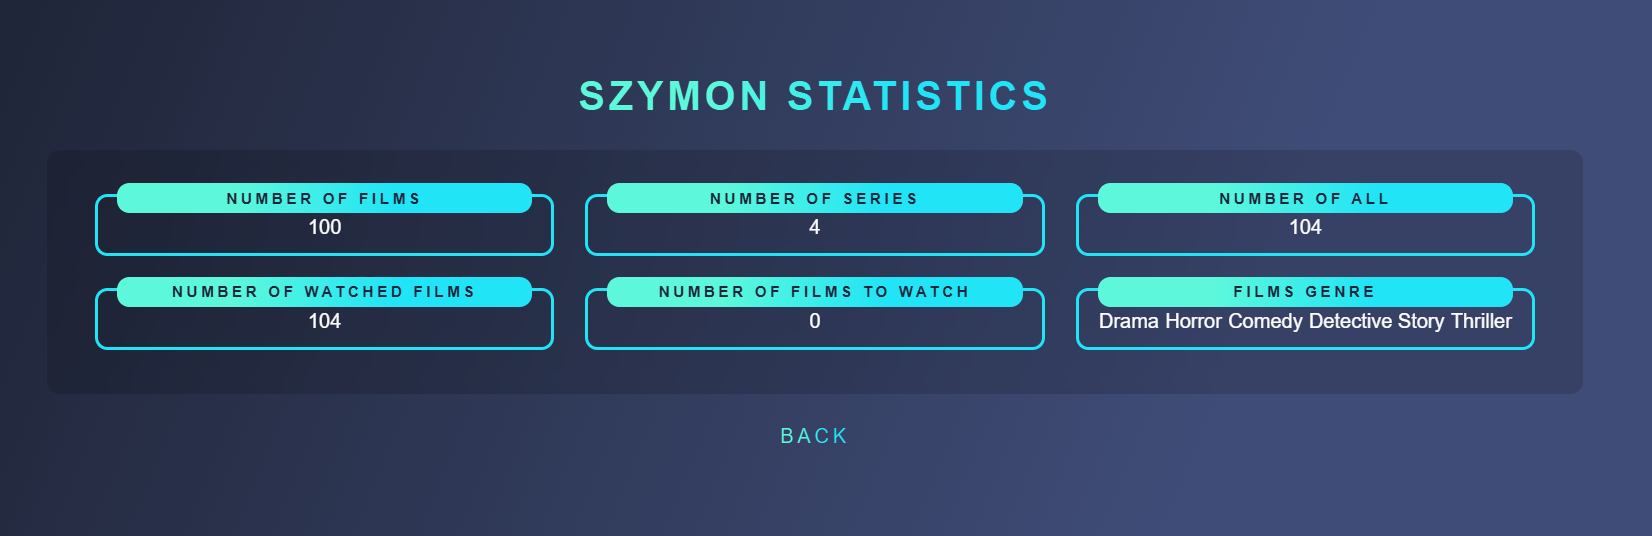
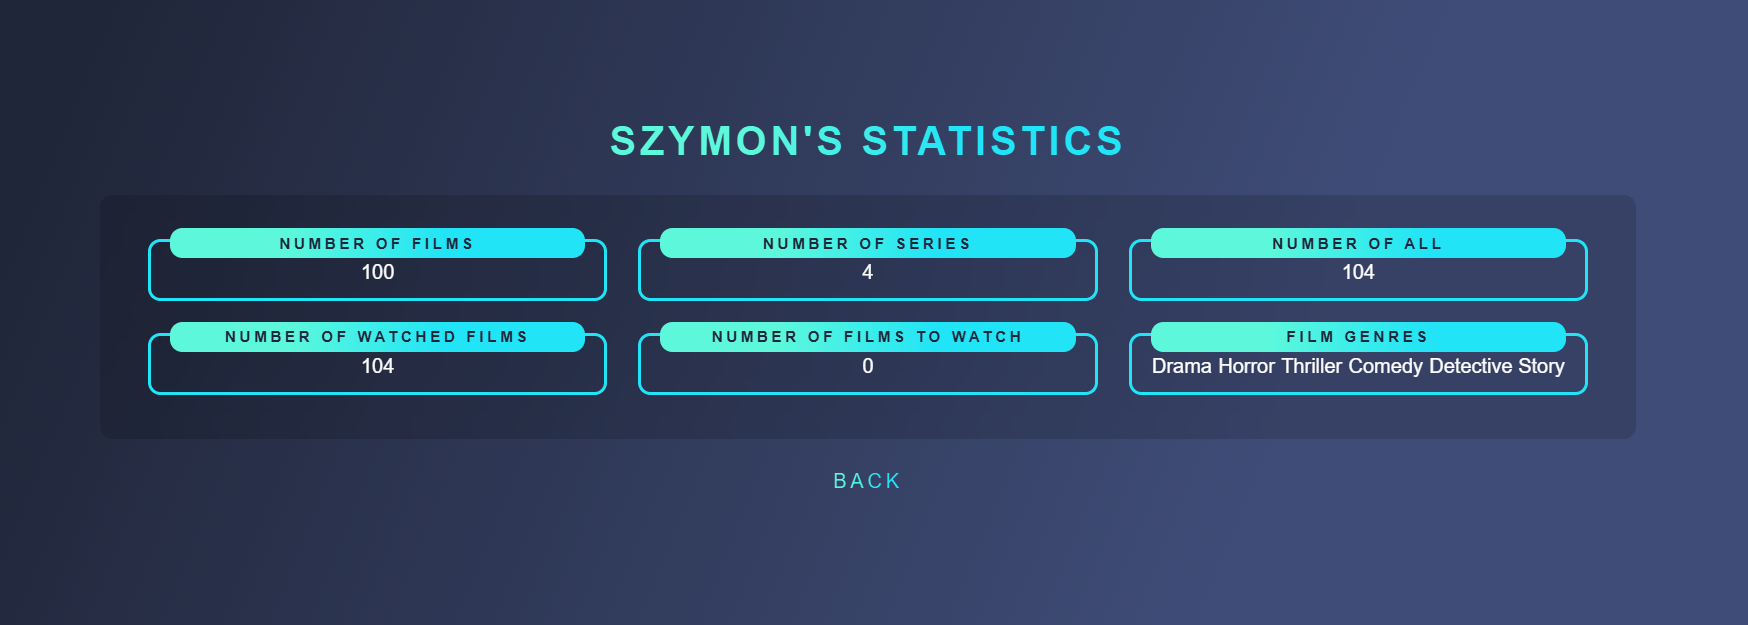
.

Changed region(s): [[0.0617, 0.3284, 0.9262, 0.6567], [0.3396, 0.1493, 0.6483, 0.2687], [0.4631, 0.7463, 0.5248, 0.8358]]

diff --git a/application/templates/statistics.html b/application/templates/statistics.html
@@ -1,11 +1,11 @@
 {% extends 'base.html' %}
 {% block head %}
-    <title>Statistics {{ Users.query.filter_by(id=id).first().login }}</title>
+    <title>{{ Users.query.filter_by(id=id).first().login }}'s statistics</title>
     <link rel="stylesheet" href="{{ url_for('static', filename='css/statistics.css') }}">
     <link rel="stylesheet" href="{{ url_for('static', filename='css/root.css') }}">
 {% endblock %}
 {% block body %}
-    <h1>{{ Users.query.filter_by(id=id).first().login }} Statistics</h1>
+    <h1>{{ Users.query.filter_by(id=id).first().login }}'s Statistics</h1>
     <div id="container">
         <div class="statistic_box">
             <div id="number_of_films">
@@ -31,7 +31,7 @@
                 <p>{{ Films_Users.query.filter_by(id_user=id, status="To watch").count() }}</p>
             </div>
             <div id="films_genre">
-                <p>Films genre</p>
+                <p>Film Genres</p>
                 {% for film_genre in film_genre_list %}
                     <p>{{ film_genre }}</p>
                 {% endfor %}
